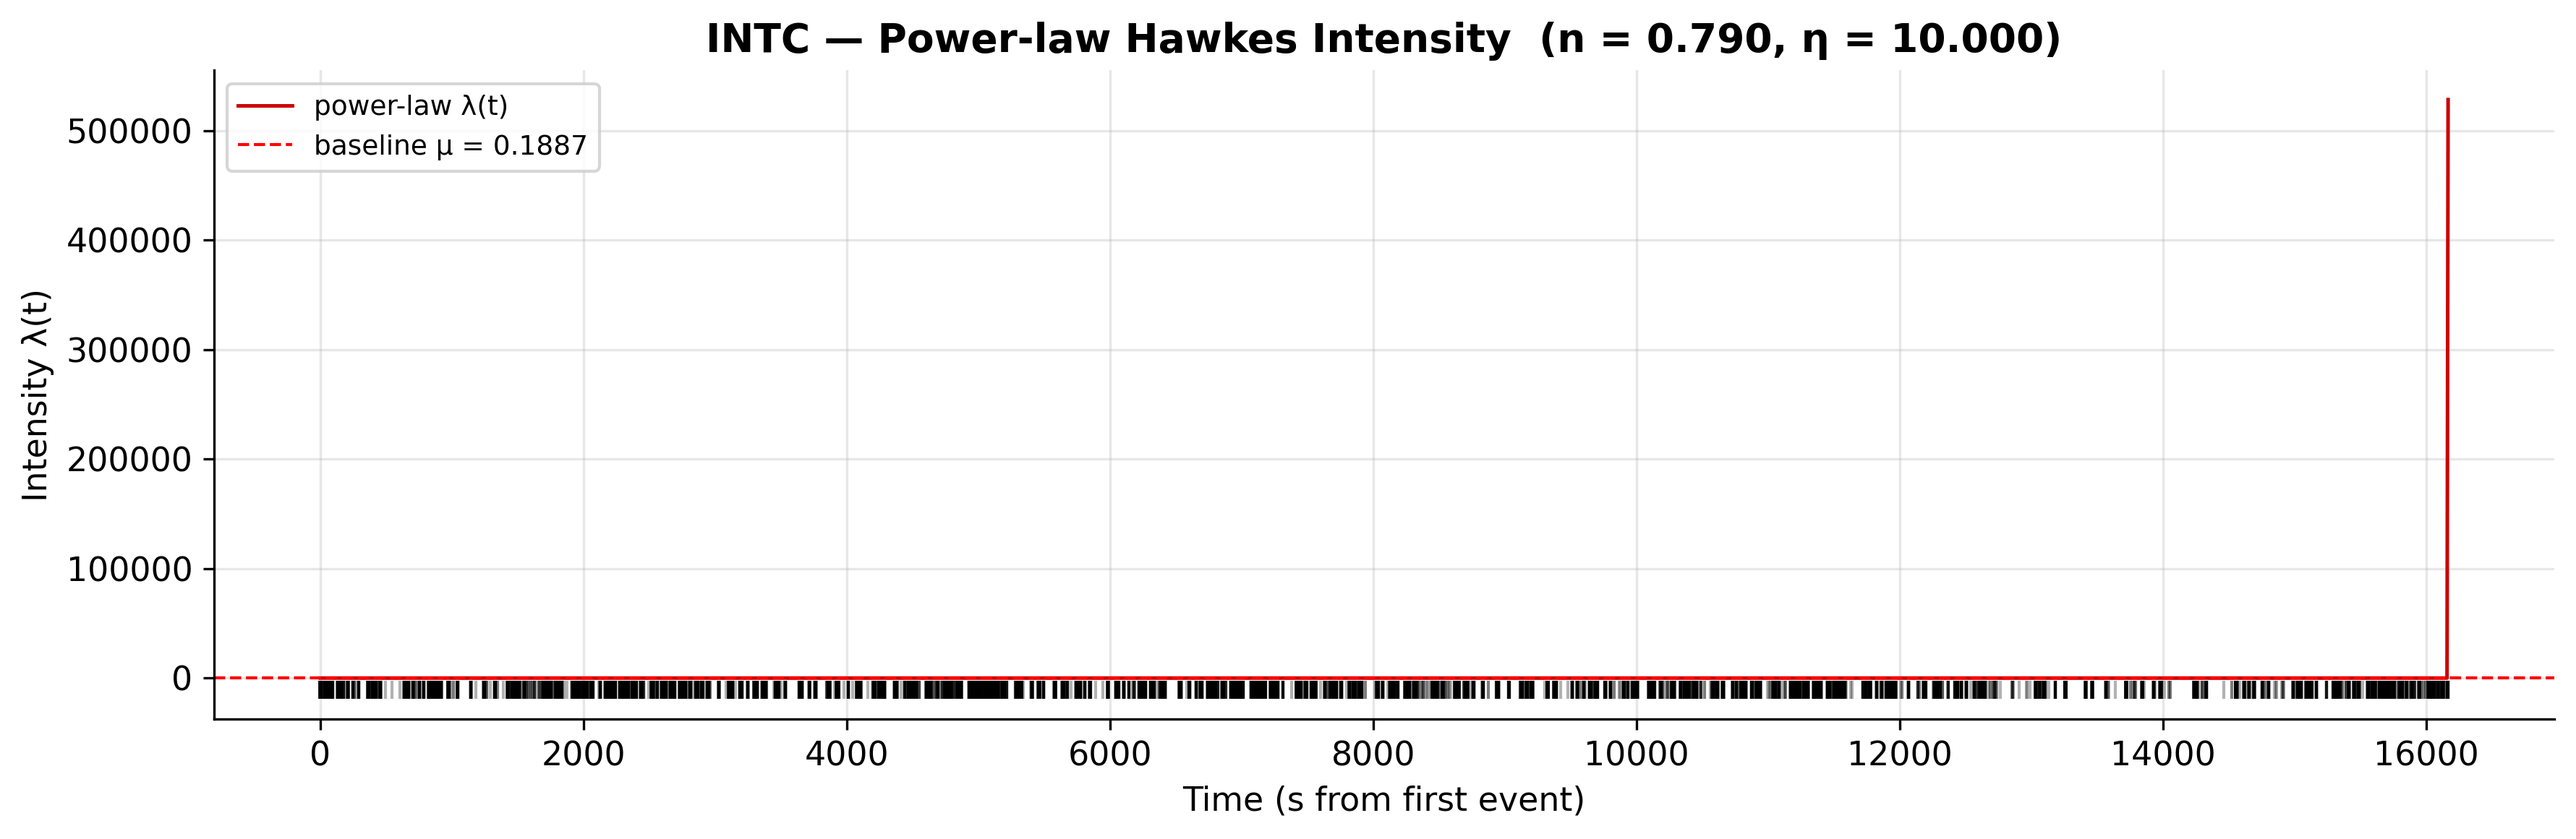
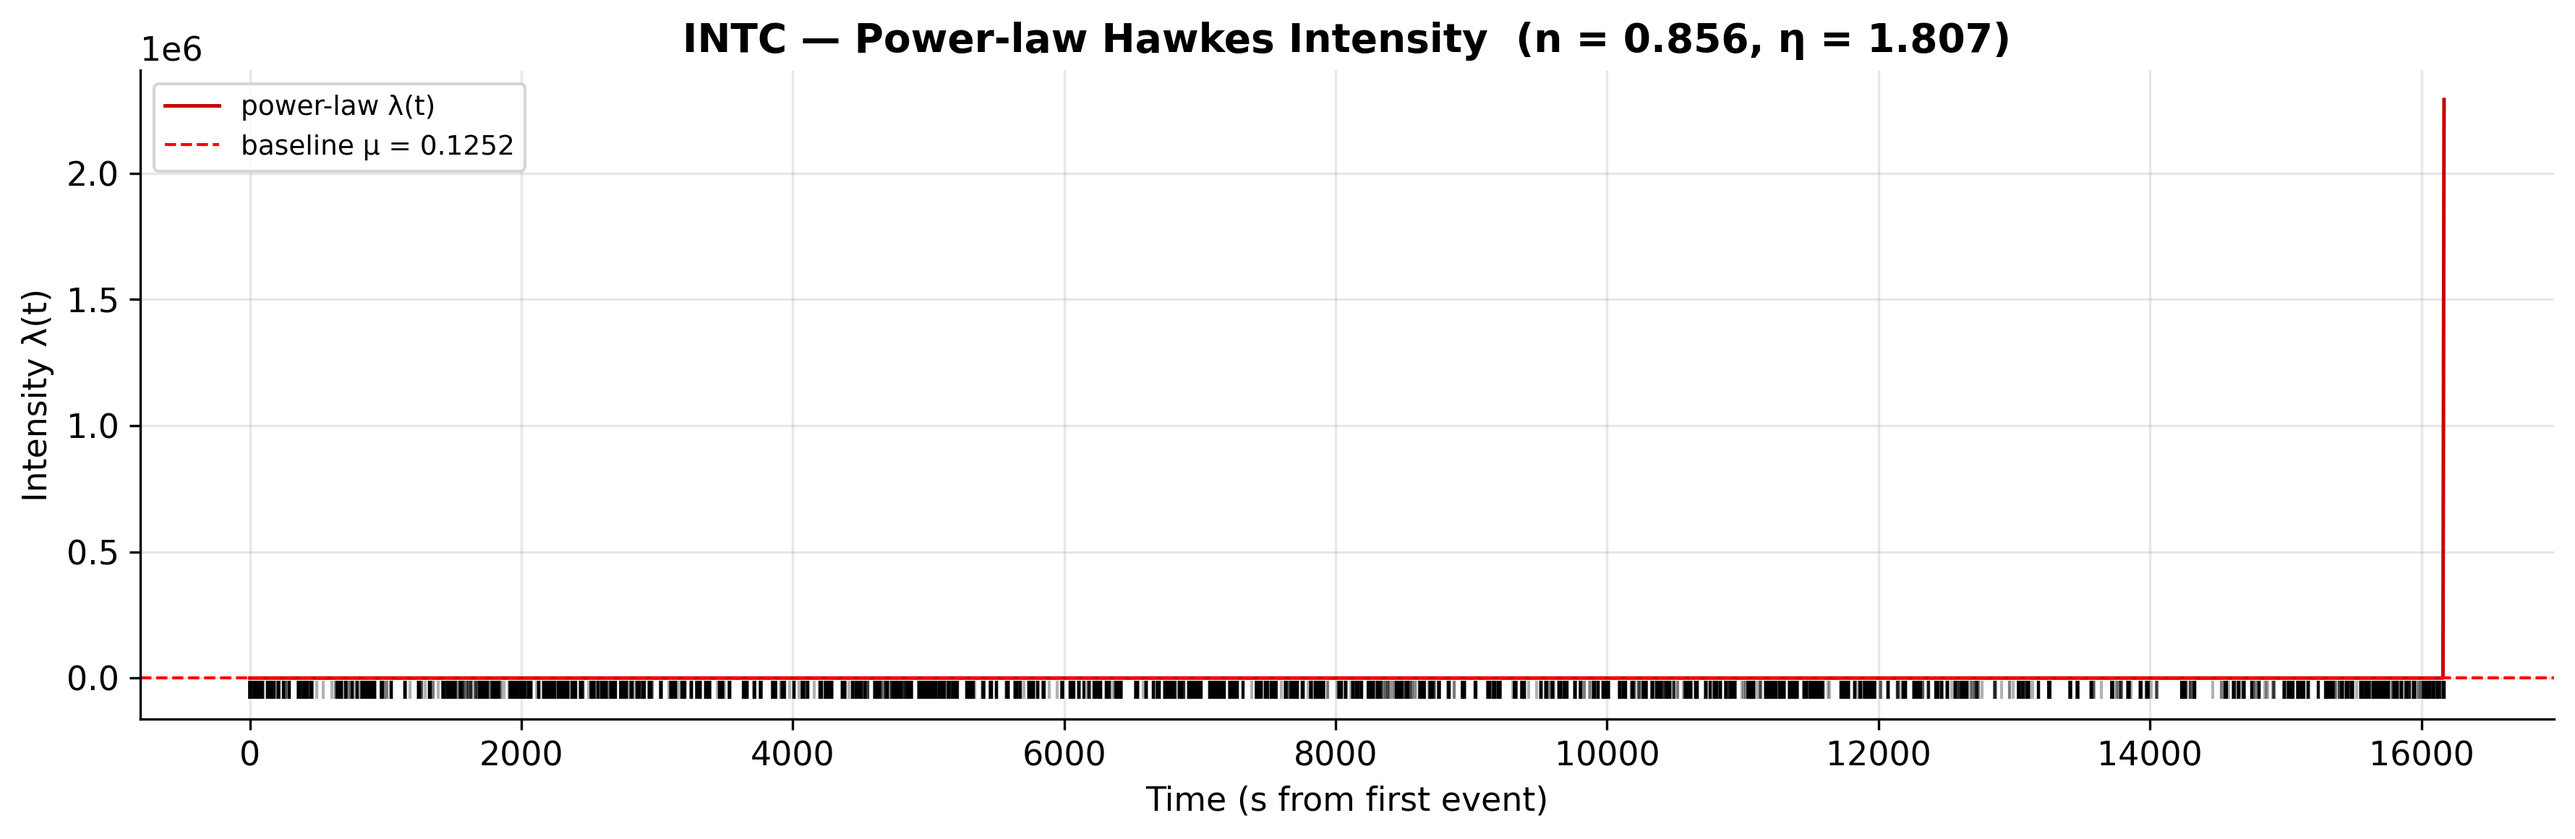
Extended range on power kernel and getting better QQ plots

diff --git a/power_hawkes.py b/power_hawkes.py
@@ -824,7 +824,7 @@ def fit_power_hawkes(
         tau_lower = float(np.percentile(pos_diffs, 5))
     else:
         tau_lower = float(pos_diffs.min()) if pos_diffs.size else 0.01
-    tau_lower = max(tau_lower, 1e-4)
+    tau_lower = max(tau_lower, 1e-6)
 
     tau_upper = max(50.0 * mean_ia, 1.0)
     n_upper   = 0.95   # branching ratio above this is near-critical and unphysical
@@ -833,7 +833,7 @@ def fit_power_hawkes(
         (1e-8,      None),           # mu
         (1e-6,      n_upper),        # n
         (tau_lower, tau_upper),      # tau
-        (1.01,      10.0),           # eta
+        (1.01,      50.0),           # eta  
     ]
 
     _emit(
